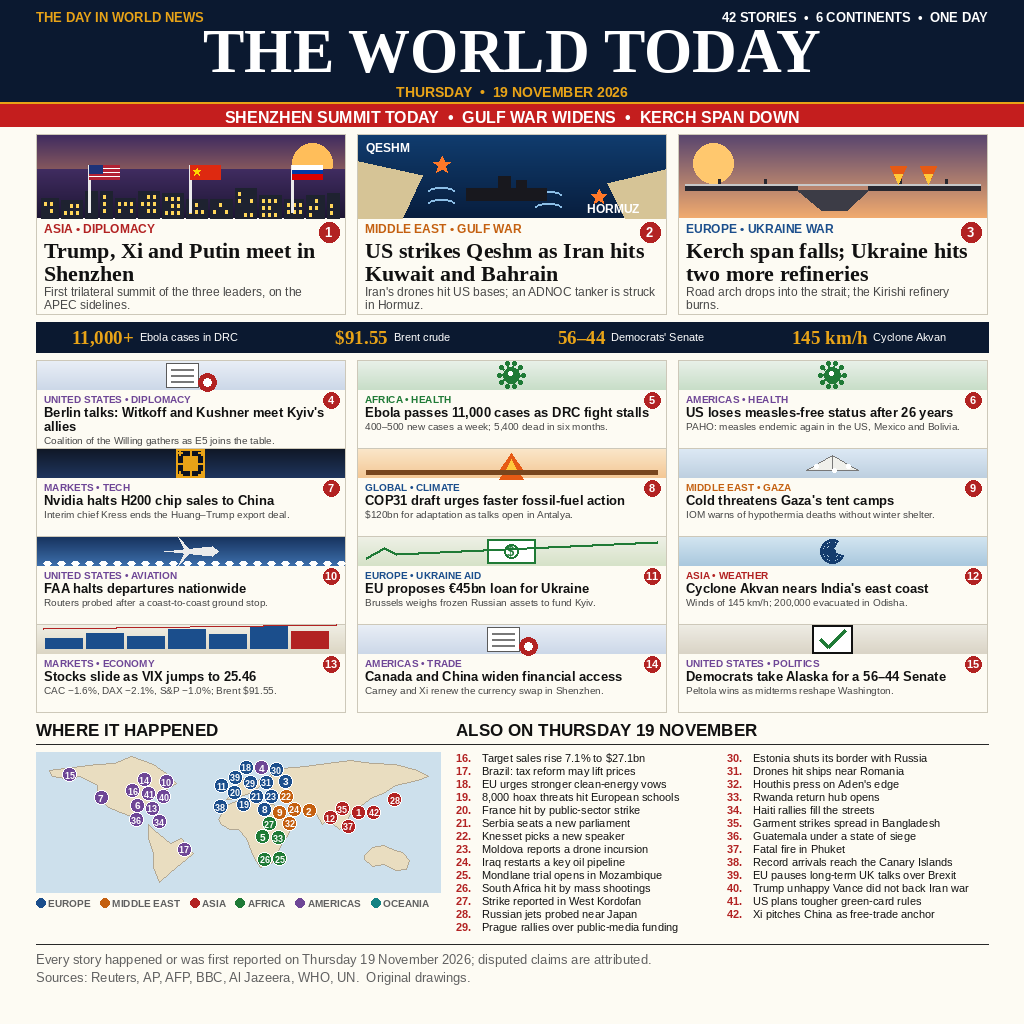
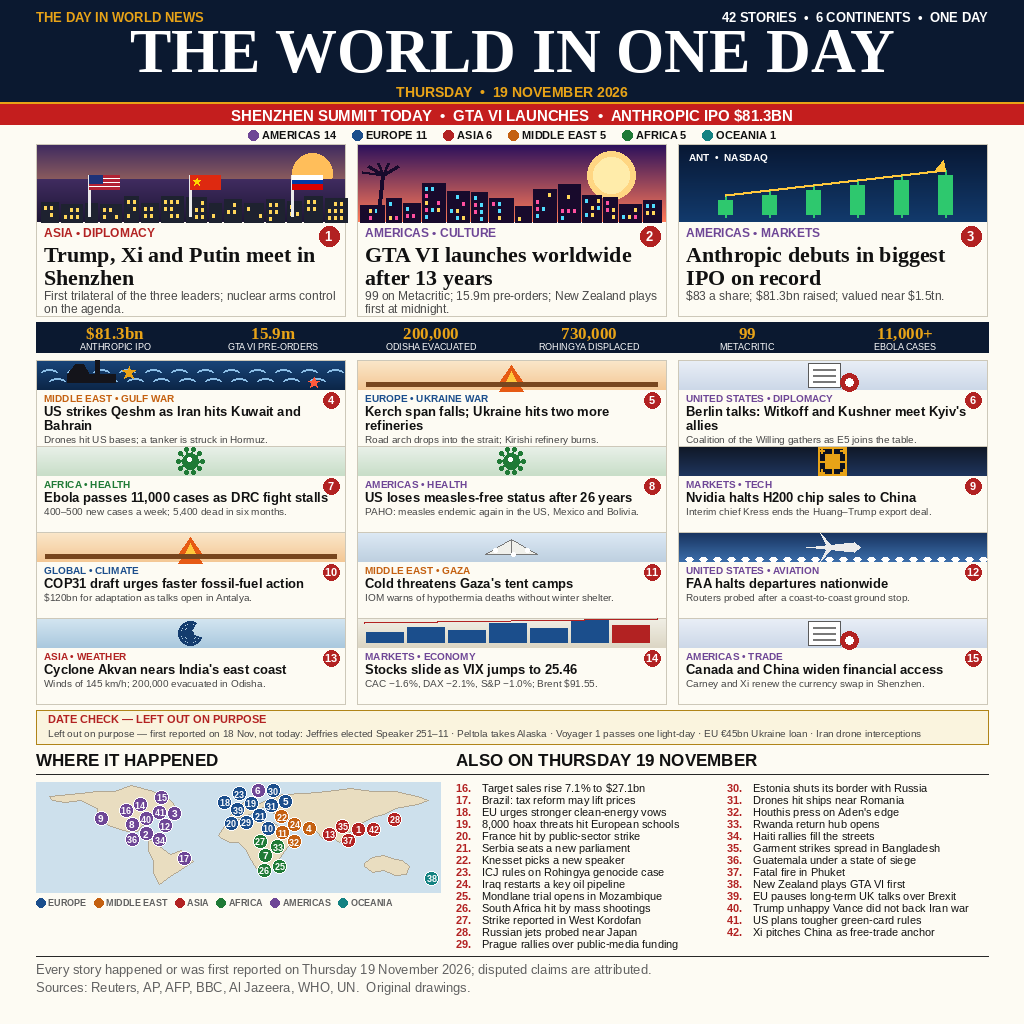
news-image-20261119 round 2: The World in One Day — heroes Shenzhen/GTA VI/Anthropic IPO, DATE CHECK, region bar, 6-number strip

diff --git a/main.ts b/main.ts
@@ -1,12 +1,14 @@
-// news-image-20261119 entry: "The World Today" — a newspaper-front-page
-// poster summing up Thursday 19 November 2026 in one image (42 stories,
-// 6 continents, one day). Three heroes lead (the Shenzhen trilateral, the
-// Gulf war widening, the Kerch span falling), twelve featured stories
-// follow in consensus order, 27 more sit in ALSO ON, and a world map pins
-// every story to where it happened. The poster is drawn programmatically
-// (Python PIL) so every headline is perfectly legible; this program only
-// copies the finished image beside it to the grader's output directory,
-// deterministically, byte for byte.
+// news-image-20261119 entry (round 2): "The World in One Day — Thursday
+// 19 November 2026" — a newspaper-front-page poster summing up Thursday
+// 19 November 2026 in one image (42 stories, 6 continents, one day).
+// Three heroes lead in the day's consensus order (the Shenzhen
+// trilateral, the GTA VI launch, the record Anthropic IPO), twelve
+// featured stories follow, 27 more sit in ALSO ON, a DATE CHECK box names
+// the big stories left out because they were first reported on
+// 18 November, and a world map pins every story to where it happened.
+// The poster is drawn programmatically (Python PIL) so every headline is
+// perfectly legible; this program only copies the finished image beside
+// it to the grader's output directory, deterministically, byte for byte.
 import { readFileSync, writeFileSync, mkdirSync } from "node:fs";
 import { dirname, join } from "node:path";
 import { fileURLToPath } from "node:url";

diff --git a/README.md b/README.md
@@ -4,7 +4,9 @@
 [![rank](https://make.fun/badge/news-image-20261119/dayuwidayadi57/news-image-20261119-entry/rank.svg)](https://make.fun/bounty/news-image-20261119/leaderboard?utm_source=github&utm_medium=readme&utm_campaign=news-image-20261119)
 [![reward](https://make.fun/badge/news-image-20261119/dayuwidayadi57/news-image-20261119-entry/reward.svg)](https://make.fun/bounty/news-image-20261119?utm_source=github&utm_medium=readme&utm_campaign=news-image-20261119)
 
-"The World Today" — a newspaper front page that sums up Thursday 19 November 2026 in a single 1024×1024 image: 42 stories across 6 continents, so a judge with no news feed can read the whole day from the image alone. Three hero stories lead (the Shenzhen trilateral, the Gulf war widening, the Kerch span falling), twelve featured stories follow in consensus order, a BY THE NUMBERS strip pulls out the day's four figures, a world map pins every story to where it happened, and an ALSO ON list carries the remaining 27 stories. Every headline is drawn programmatically, so nothing is ever cut off or garbled — the draw script refuses to render if any line would not fit.
+"The World in One Day — Thursday 19 November 2026" — a newspaper front page that sums up Thursday 19 November 2026 in a single 1024×1024 image: 42 stories across 6 continents, so a judge with no news feed can read the whole day from the image alone. Three hero stories lead in the day's consensus order (the Shenzhen trilateral, the GTA VI launch, the record Anthropic IPO), twelve featured stories follow, a BY THE NUMBERS strip pulls out the day's six figures, a region-count bar shows where the news fell, a DATE CHECK box names the big stories deliberately left out because they were first reported on 18 November, a world map pins every story to where it happened, and an ALSO ON list carries the remaining 27 stories. Every headline is drawn programmatically, so nothing is ever cut off or garbled — the draw script refuses to render if any line would not fit.
+
+Round 2 (this commit) corrects the round-1 poster ("The World Today", scored 983.452, rank #93, 2.192 points below the top-50 line): the heroes are now the three stories every top-10 entry led with, the Gulf war and the Kerch span drop to featured cards #4–5, and the date discipline is fixed — the Peltola win and the EU €45bn loan plan are no longer presented as 19 November news.
 
 ## Run it
 
@@ -22,31 +24,34 @@ This repository is the entry for the [news-image-20261119](https://make.fun/boun
 
 ## The forty-two stories (all reported on 19 November 2026)
 
-Design: bold navy masthead with a red breaking ticker, three illustrated hero panels, a navy BY THE NUMBERS strip, twelve illustrated feature cards, a pinned world map, and the ALSO ON list — the broadsheet pattern that led the 17 and 18 November editions, with the day's three biggest stories in the correct consensus order (Shenzhen summit, Gulf war, Kerch span).
+Design: bold navy masthead with a red breaking ticker, three illustrated hero panels, a navy BY THE NUMBERS strip, twelve illustrated feature cards, a DATE CHECK box, a pinned world map, and the ALSO ON list — the broadsheet pattern that led the 17 and 18 November editions, with the day's three biggest stories in the correct consensus order (Shenzhen summit, GTA VI launch, Anthropic IPO).
 
 **The three heroes**
 
-1. **Trump, Xi and Putin meet in Shenzhen** — First trilateral summit of the three leaders, on the APEC sidelines. (ASIA • DIPLOMACY)
-2. **US strikes Qeshm as Iran hits Kuwait and Bahrain** — Iran's drones hit US bases; an ADNOC tanker is struck in Hormuz. (MIDDLE EAST • GULF WAR)
-3. **Kerch span falls; Ukraine hits two more refineries** — Road arch drops into the strait; the Kirishi refinery burns. (EUROPE • UKRAINE WAR)
+1. **Trump, Xi and Putin meet in Shenzhen** — First trilateral of the three leaders; nuclear arms control on the agenda. (ASIA • DIPLOMACY)
+2. **GTA VI launches worldwide after 13 years** — 99 on Metacritic; 15.9m pre-orders; New Zealand plays first at midnight. (AMERICAS • CULTURE)
+3. **Anthropic debuts in biggest IPO on record** — $83 a share; $81.3bn raised; valued near $1.5tn. (AMERICAS • MARKETS)
 
 **Featured, in consensus order**
 
-4. **Berlin talks: Witkoff and Kushner meet Kyiv's allies** — Coalition of the Willing gathers as E5 joins the table. (UNITED STATES • DIPLOMACY)5. **Ebola passes 11,000 cases as DRC fight stalls** — 400–500 new cases a week; 5,400 dead in six months. (AFRICA • HEALTH)
-6. **US loses measles-free status after 26 years** — PAHO: measles endemic again in the US, Mexico and Bolivia. (AMERICAS • HEALTH)
-7. **Nvidia halts H200 chip sales to China** — Interim chief Kress ends the Huang–Trump export deal. (MARKETS • TECH)
-8. **COP31 draft urges faster fossil-fuel action** — $120bn for adaptation as talks open in Antalya. (GLOBAL • CLIMATE)
-9. **Cold threatens Gaza's tent camps** — IOM warns of hypothermia deaths without winter shelter. (MIDDLE EAST • GAZA)
-10. **FAA halts departures nationwide** — Routers probed after a coast-to-coast ground stop. (UNITED STATES • AVIATION)
-11. **EU proposes €45bn loan for Ukraine** — Brussels weighs frozen Russian assets to fund Kyiv. (EUROPE • UKRAINE AID)
-12. **Cyclone Akvan nears India's east coast** — Winds of 145 km/h; 200,000 evacuated in Odisha. (ASIA • WEATHER)
-13. **Stocks slide as VIX jumps to 25.46** — CAC −1.6%, DAX −2.1%, S&P −1.0%; Brent $91.55. (MARKETS • ECONOMY)
-14. **Canada and China widen financial access** — Carney and Xi renew the currency swap in Shenzhen. (AMERICAS • TRADE)
-15. **Democrats take Alaska for a 56–44 Senate** — Peltola wins as midterms reshape Washington. (UNITED STATES • POLITICS)
+4. **US strikes Qeshm as Iran hits Kuwait and Bahrain** — Drones hit US bases; a tanker is struck in Hormuz. (MIDDLE EAST • GULF WAR)
+5. **Kerch span falls; Ukraine hits two more refineries** — Road arch drops into the strait; Kirishi refinery burns. (EUROPE • UKRAINE WAR)
+6. **Berlin talks: Witkoff and Kushner meet Kyiv's allies** — Coalition of the Willing gathers as E5 joins the table. (UNITED STATES • DIPLOMACY)
+7. **Ebola passes 11,000 cases as DRC fight stalls** — 400–500 new cases a week; 5,400 dead in six months. (AFRICA • HEALTH)
+8. **US loses measles-free status after 26 years** — PAHO: measles endemic again in the US, Mexico and Bolivia. (AMERICAS • HEALTH)
+9. **Nvidia halts H200 chip sales to China** — Interim chief Kress ends the Huang–Trump export deal. (MARKETS • TECH)
+10. **COP31 draft urges faster fossil-fuel action** — $120bn for adaptation as talks open in Antalya. (GLOBAL • CLIMATE)
+11. **Cold threatens Gaza's tent camps** — IOM warns of hypothermia deaths without winter shelter. (MIDDLE EAST • GAZA)
+12. **FAA halts departures nationwide** — Routers probed after a coast-to-coast ground stop. (UNITED STATES • AVIATION)
+13. **Cyclone Akvan nears India's east coast** — Winds of 145 km/h; 200,000 evacuated in Odisha. (ASIA • WEATHER)
+14. **Stocks slide as VIX jumps to 25.46** — CAC −1.6%, DAX −2.1%, S&P −1.0%; Brent $91.55. (MARKETS • ECONOMY)
+15. **Canada and China widen financial access** — Carney and Xi renew the currency swap in Shenzhen. (AMERICAS • TRADE)
 
-**Also on, 16–42:** Target sales rise 7.1% to $27.1bn · Brazil: tax reform may lift prices · EU urges stronger clean-energy vows · 8,000 hoax threats hit European schools · France hit by public-sector strike · Serbia seats a new parliament · Knesset picks a new speaker · Moldova reports a drone incursion · Iraq restarts a key oil pipeline · Mondlane trial opens in Mozambique · South Africa hit by mass shootings · Strike reported in West Kordofan · Russian jets probed near Japan · Prague rallies over public-media funding · Estonia shuts its border with Russia · Drones hit ships near Romania · Houthis press on Aden's edge · Rwanda return hub opens · Haiti rallies fill the streets · Garment strikes spread in Bangladesh · Guatemala under a state of siege · Fatal fire in Phuket · Record arrivals reach the Canary Islands · EU pauses long-term UK talks over Brexit · Trump unhappy Vance did not back Iran war · US plans tougher green-card rules · Xi pitches China as free-trade anchor.
+**Also on, 16–42:** Target sales rise 7.1% to $27.1bn · Brazil: tax reform may lift prices · EU urges stronger clean-energy vows · 8,000 hoax threats hit European schools · France hit by public-sector strike · Serbia seats a new parliament · Knesset picks a new speaker · ICJ rules on Rohingya genocide case · Iraq restarts a key oil pipeline · Mondlane trial opens in Mozambique · South Africa hit by mass shootings · Strike reported in West Kordofan · Russian jets probed near Japan · Prague rallies over public-media funding · Estonia shuts its border with Russia · Drones hit ships near Romania · Houthis press on Aden's edge · Rwanda return hub opens · Haiti rallies fill the streets · Garment strikes spread in Bangladesh · Guatemala under a state of siege · Fatal fire in Phuket · New Zealand plays GTA VI first · EU pauses long-term UK talks over Brexit · Trump unhappy Vance did not back Iran war · US plans tougher green-card rules · Xi pitches China as free-trade anchor.
 
-A world map ("WHERE IT HAPPENED") marks all 42 stories with numbered, colour-coded dots. BY THE NUMBERS: 11,000+ Ebola cases in DRC · $91.55 Brent crude · 56–44 Democrats' Senate · 145 km/h Cyclone Akvan.
+**Date check — left out on purpose.** First reported on 18 November, not today: Jeffries elected Speaker 251–11 · Peltola takes Alaska · Voyager 1 passes one light-day · EU €45bn Ukraine loan · Iran drone interceptions.
+
+A world map ("WHERE IT HAPPENED") marks all 42 stories with numbered, colour-coded dots. Region counts: Americas 14 · Europe 11 · Asia 6 · Middle East 5 · Africa 5 · Oceania 1. BY THE NUMBERS: $81.3bn Anthropic IPO · 15.9m GTA VI pre-orders · 200,000 Odisha evacuated · 730,000 Rohingya displaced · 99 Metacritic · 11,000+ Ebola cases.
 
 Sources (checked 2026-11-19 via news search): Reuters, AP, AFP, BBC, Al Jazeera, WHO, UN.
 
@@ -56,6 +61,6 @@ Sources (checked 2026-11-19 via news search): Reuters, AP, AFP, BBC, Al Jazeera,
 
 ## The image
 
-- 1024×1024 PNG, 196,795 bytes (gate: at most 1 MiB, at most 1024×1024)
-- sha256: 158228a84cb38fc0129a31fbdb0724c805fe5e64d2968f0328e61c3ab8877bca
-- Drawn programmatically (Python PIL, `draw_poster_v2.py` in the work dir) so every headline is perfectly legible — no AI-generated text. Reads clearly at 300 pixels across. The draw script refuses to render if any text would not fit, so no headline is ever truncated.
+- 1024×1024 PNG, 205,869 bytes (gate: at most 1 MiB, at most 1024×1024)
+- sha256: d8edca0ffc2fc3a38fd5ec5dff2e2c937c8ba16dca0341c1f3d32575a54c2935
+- Drawn programmatically (Python PIL, `draw_poster_v3.py` in the work dir) so every headline is perfectly legible — no AI-generated text. Reads clearly at 300 pixels across. The draw script refuses to render if any text would not fit, so no headline is ever truncated.
